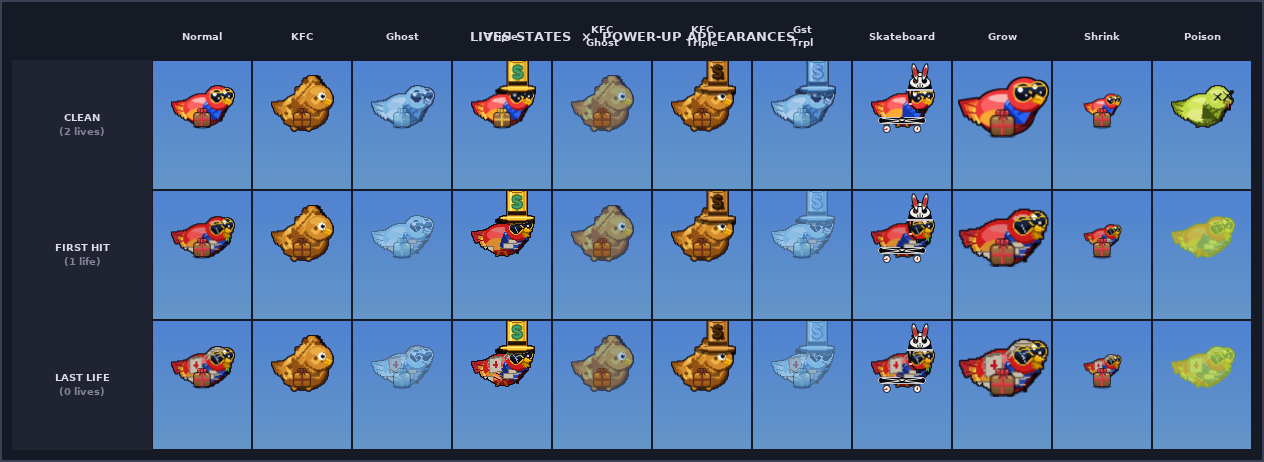
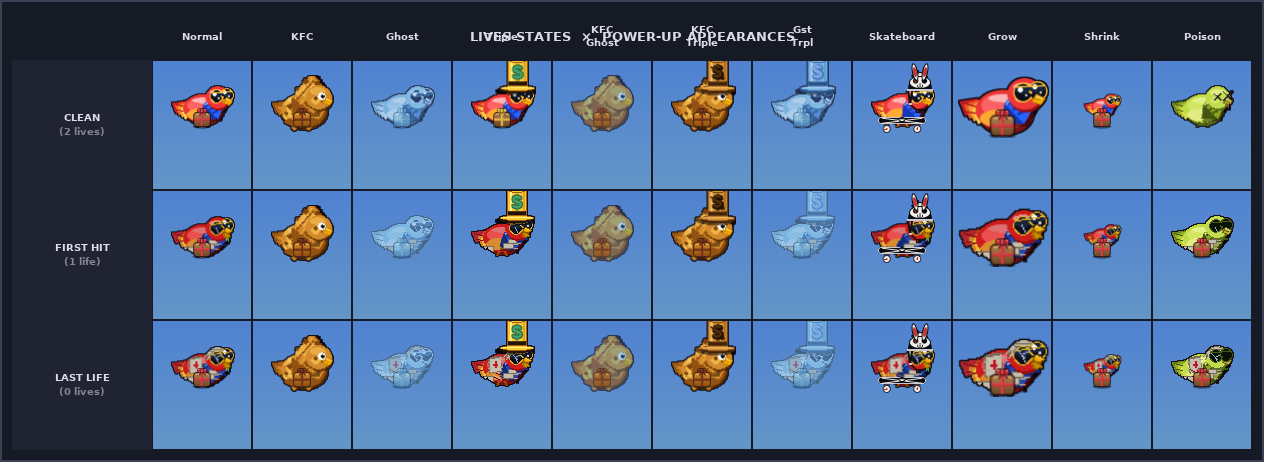
Grid poison+lives cells: chartreuse palette base with lives dressings
Replace the numpy-lerp-on-red-hurt approach with the proper pattern:
build the chartreuse body via _build_parrot_with_palette(P_CHARTREUSE),
add lives dressings in correct draw order (headwrap before lenses for
last_life via draw_lenses=False + _draw_lenses), outline, and blit.
The chartreuse palette IS the poison look; no tint pass needed.
Parcel drawn at BIRD_Y+12 for the lives rows.

Changed region(s): [[0.9256, 0.7273, 0.9873, 0.8485], [0.9256, 0.4545, 0.9873, 0.5758]]

diff --git a/docs/render_lives_powerup_grid.py b/docs/render_lives_powerup_grid.py
@@ -242,24 +242,39 @@ def render_cell(lives_state: str, effect: str) -> pygame.Surface:
         cell.blit(img, img.get_rect(center=(CELL_W // 2, BIRD_Y)))
         return cell
 
-    # Poison: clean row → terminal chartreuse-dead sprite; lives rows → chartreuse tint.
-    # tint_copy's BLEND_RGBA_MIN approach can't raise the G channel on a red body
-    # (clamps at sprite's G≈40), so direct surfarray interpolation is used instead.
+    # Poison: clean → terminal chartreuse-dead sprite; lives → chartreuse palette base
+    # with lives dressings applied on top (same pattern as ghost+lives but with P_CHARTREUSE).
+    # draw_lenses=False for last_life so headwrap goes behind the chartreuse shades.
     if effect == "poison":
         cell = pygame.Surface((CELL_W, CELL_H))
         fill_sky(cell)
         if lives_state == "clean":
             img = _parrot.get_poisoned_parrot(1, 0.0)
         else:
-            import numpy as np
-            import pygame.surfarray as sa
-            img_fn = _parrot.get_hurt_parrot if lives_state == "last_life" \
-                     else _parrot.get_first_hit_parrot
-            img = img_fn(1, 0.0).copy()
-            arr = sa.pixels3d(img)
-            target = np.array([180, 225, 75], dtype=np.float32)
-            arr[:] = (arr.astype(np.float32) * 0.3 + target * 0.7).clip(0, 255).astype(np.uint8)
-            del arr
+            from game.dollar_parrot_ghost import _build_parrot_with_palette, _draw_lenses
+            from game.dollar_parrot_dead import P_CHARTREUSE
+            from game.parrot import (
+                _h_draw_bandaids, _h_draw_headwrap, _h_draw_chest_dressing,
+                _h_draw_cracked_lens, _h_draw_ragged_cuts,
+                _fh_draw_single_crack, _add_outline, get_parcel,
+            )
+            if lives_state == "last_life":
+                base = _build_parrot_with_palette(10.0, P_CHARTREUSE, draw_lenses=False)
+                _h_draw_bandaids(base)
+                _h_draw_headwrap(base)
+                _draw_lenses(base, 50, 20, P_CHARTREUSE)
+                _h_draw_chest_dressing(base)
+                _h_draw_ragged_cuts(base)
+                _h_draw_cracked_lens(base)
+            else:  # first_hit
+                base = _build_parrot_with_palette(10.0, P_CHARTREUSE)
+                _h_draw_bandaids(base)
+                _fh_draw_single_crack(base)
+            img = _add_outline(base)
+            par = get_parcel("normal").copy()
+            cell.blit(img, img.get_rect(center=(CELL_W // 2, BIRD_Y)))
+            cell.blit(par, par.get_rect(center=(CELL_W // 2, BIRD_Y + 12)))
+            return cell
         cell.blit(img, img.get_rect(center=(CELL_W // 2, BIRD_Y)))
         return cell
 
